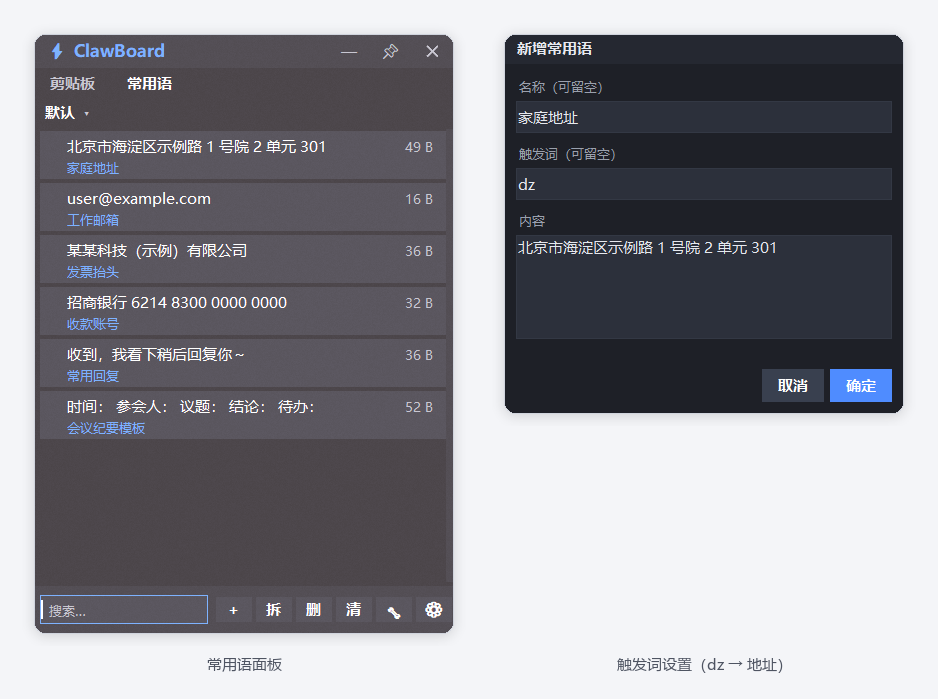
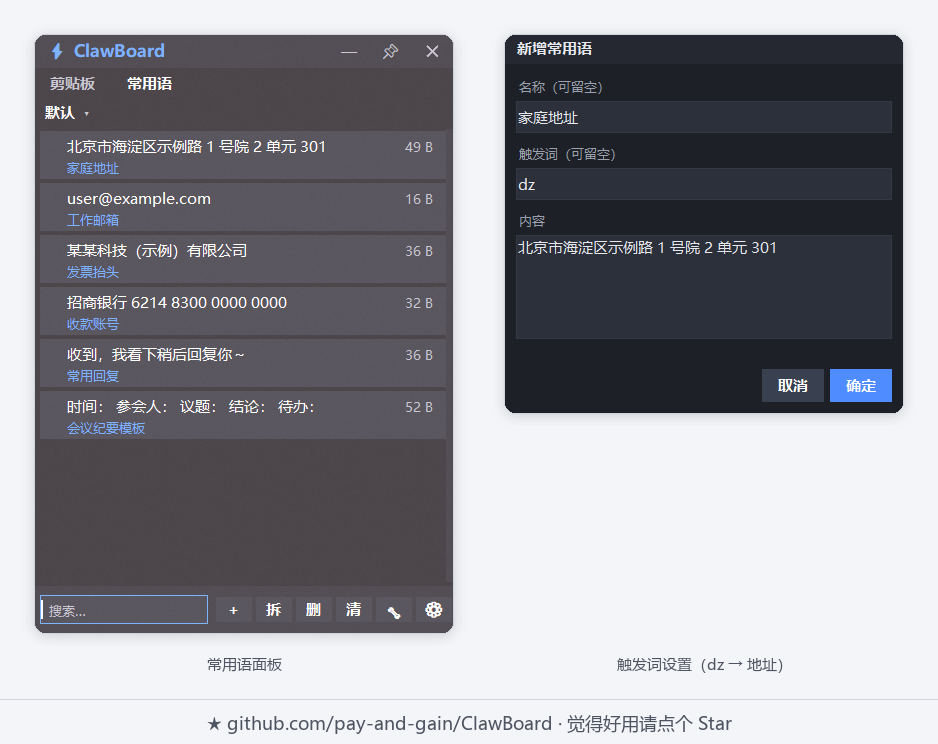
docs(images): 图片托管改 jsDelivr CDN 修复国内打不开 + 截图加求 Star 品牌条
- 根因：GitHub 渲染 README 相对路径图片时 302 到 raw.githubusercontent.com，
  该域名在部分网络不可达（实测 curl 返回 000），导致图片全部破图。
  实测 cdn.jsdelivr.net 可达且字节完整。
- 替换范围：README.md / README.en.md 各 11 处；docs/getting-started*.md 各 1 处；
  docs/DESIGN.en.md 与 docs/制作思路.md 的 markdown 图片链接各 1 处。
  docs/index.html 保持相对路径（在 GitHub Pages 上渲染，github.io 实测可达）。
- 截图优化：每张图底部加统一品牌引导条（★ 仓库地址 · 觉得好用请点个 Star）；
  剪贴板演示数据首条加求 Star 条目；预览图去掉 demo image 字样。
- 11 张截图全部重新生成；README 中英仍 230 行对称；真实数据文件未被触碰。

diff --git a/tools/shots/make_shots.py b/tools/shots/make_shots.py
@@ -73,6 +73,8 @@ SHADOW_RGBA = (18, 21, 30, 40)
 FONT_PATH = r'C:\Windows\Fonts\msyh.ttc'
 CAP_COLOR = (78, 84, 98)
 WIN = '420x600+120+120'                 # 单窗口截图的窗口尺寸/位置
+# 每张图底部统一的品牌引导条（求 Star）
+BRAND_TEXT = '★ github.com/pay-and-gain/ClawBoard · 觉得好用请点个 Star'
 
 
 # ---------------------------------------------------------------------------
@@ -275,7 +277,24 @@ def dock_tile(panel_raw, *, panel_y=None, work_h=600, left_gap=110, radius=12,
     return tile
 
 
+def add_brand(img):
+    """在图片最底部加一条统一的品牌引导条（求 Star）。字号随图宽自适应。"""
+    w, h = img.size
+    fs = max(12, min(18, int(w / 33)))
+    bar = fs + 27
+    cv = Image.new('RGBA', (w, h + bar), BG + (255,))
+    cv.alpha_composite(img.convert('RGBA'), (0, 0))
+    d = ImageDraw.Draw(cv)
+    d.line([(0, h), (w - 1, h)], fill=BORDER + (255,))
+    f = _font(fs)
+    tw = d.textlength(BRAND_TEXT, font=f)
+    d.text(((w - tw) / 2, h + (bar - fs * 1.32) / 2), BRAND_TEXT, font=f,
+           fill=CAP_COLOR + (255,))
+    return cv
+
+
 def save(img, name):
+    img = add_brand(img)
     path = os.path.join(OUT_DIR, name)
     if os.path.exists(path):
         os.remove(path)
@@ -321,8 +340,14 @@ def _demo(text, app, ctype=None, fav=0, mins=10, lines=None, img=None):
 
 
 def demo_clip(app):
-    """11 条脱敏演示记录：覆盖链接 / 邮箱 / JSON / 代码 / 手机号 / 日期等类型。"""
+    """脱敏演示记录：覆盖链接 / 邮箱 / JSON / 代码 / 手机号 / 日期等类型。
+
+    首条为「求 Star」引导条目 —— 让截图自身会说话（用户明确要求）。
+    """
     return [
+        _demo('如果 ClawBoard 帮到了你，点个 Star 支持一下吧：'
+              'github.com/pay-and-gain/ClawBoard',
+              'msedge', ctype='url', fav=1, mins=1),
         _demo('https://github.com/pay-and-gain/ClawBoard', 'msedge',
               ctype='url', fav=1, mins=3),
         _demo('user@example.com', 'outlook', mins=9),
@@ -357,8 +382,9 @@ def make_demo_png(path):
     d.rectangle([40, 40, w - 40, h - 40], outline=(255, 255, 255), width=3)
     d.ellipse([90, 120, 240, 270], fill=(255, 214, 102))
     d.polygon([(330, 300), (470, 300), (400, 150)], fill=(255, 255, 255))
-    d.text((60, 320), 'ClawBoard  -  demo image', font=_font(30),
-           fill=(255, 255, 255))
+    d.text((60, 296), 'ClawBoard', font=_font(36), fill=(255, 255, 255))
+    d.text((62, 348), 'github.com/pay-and-gain/ClawBoard', font=_font(19),
+           fill=(236, 242, 252))
     im.save(path, 'PNG')
 
 

diff --git a/README.en.md b/README.en.md
@@ -13,7 +13,7 @@ A lightweight clipboard history panel that sits in a corner of your screen: copy
 > 💛 **If this tool helps you, give it a Star** — every star keeps the updates coming. Found it useful? Share it with your friends and colleagues.
 
 <p align="center">
-  <img src="docs/images/main-window.png" alt="ClawBoard main window: clipboard history list" width="300">
+  <img src="https://cdn.jsdelivr.net/gh/pay-and-gain/ClawBoard@main/docs/images/main-window.png" alt="ClawBoard main window: clipboard history list" width="300">
 </p>
 
 - **Clipboard history** — auto capture, dedupe, configurable cap, starring; hover for time, right-click for details
@@ -37,7 +37,7 @@ A lightweight clipboard history panel that sits in a corner of your screen: copy
 ### 🔍 Advanced search · Pinyin · Auto-tagging
 
 <p align="center">
-  <img src="docs/images/search-highlight.png" alt="Advanced search: ClawBoard type:url, with the matched term highlighted" width="440">
+  <img src="https://cdn.jsdelivr.net/gh/pay-and-gain/ClawBoard@main/docs/images/search-highlight.png" alt="Advanced search: ClawBoard type:url, with the matched term highlighted" width="440">
 </p>
 
 - **Advanced search** — `app:` source / `time:` / `type:` / `size:` / `is:` / `tag:` / `-` exclude, multi-word AND + hit highlighting
@@ -47,7 +47,7 @@ A lightweight clipboard history panel that sits in a corner of your screen: copy
 ### 💬 Phrases & triggers
 
 <p align="center">
-  <img src="docs/images/phrases.png" alt="Phrases panel with the trigger-snippet dialog" width="460">
+  <img src="https://cdn.jsdelivr.net/gh/pay-and-gain/ClawBoard@main/docs/images/phrases.png" alt="Phrases panel with the trigger-snippet dialog" width="460">
 </p>
 
 - **Phrases** — group management, word split (turn one block of text into many phrases), full CRUD
@@ -56,7 +56,7 @@ A lightweight clipboard history panel that sits in a corner of your screen: copy
 ### 🖼 Image clipboard
 
 <p align="center">
-  <img src="docs/images/image-clipboard.png" alt="Image clipboard entry with the corner preview" width="560">
+  <img src="https://cdn.jsdelivr.net/gh/pay-and-gain/ClawBoard@main/docs/images/image-clipboard.png" alt="Image clipboard entry with the corner preview" width="560">
 </p>
 
 - **Image clipboard** — screenshots / copied images are captured, and the full-size preview pops up in the corner on select
@@ -65,7 +65,7 @@ A lightweight clipboard history panel that sits in a corner of your screen: copy
 ### 🧰 27 text transforms · Batch export
 
 <p align="center">
-  <img src="docs/images/transform.png" alt="Transform window: recommended transforms with source / result" width="520">
+  <img src="https://cdn.jsdelivr.net/gh/pay-and-gain/ClawBoard@main/docs/images/transform.png" alt="Transform window: recommended transforms with source / result" width="520">
 </p>
 
 - **27 text transforms** — encode/decode, case, line ops, hashes (MD5 / SHA1 / SHA256), JSON formatting… with smart recommendations
@@ -74,7 +74,7 @@ A lightweight clipboard history panel that sits in a corner of your screen: copy
 ### ⌨ Command palette
 
 <p align="center">
-  <img src="docs/images/command-palette.png" alt="Command palette: fuzzy-filter commands" width="300">
+  <img src="https://cdn.jsdelivr.net/gh/pay-and-gain/ClawBoard@main/docs/images/command-palette.png" alt="Command palette: fuzzy-filter commands" width="300">
 </p>
 
 - **Open with `Ctrl+Shift+P`** — type to fuzzy-filter commands and press Enter to run
@@ -82,9 +82,9 @@ A lightweight clipboard history panel that sits in a corner of your screen: copy
 ### 🎨 Look & feel
 
 <p align="center">
-  <img src="docs/images/theme-compare.png" alt="Light / dark theme comparison" width="300">
-  <img src="docs/images/folded-edge.png" alt="Expanded panel vs. double-click collapse to the edge" width="320">
-  <img src="docs/images/scale-compare.png" alt="Proportional UI scaling at 50% / 100% / 150%" width="330">
+  <img src="https://cdn.jsdelivr.net/gh/pay-and-gain/ClawBoard@main/docs/images/theme-compare.png" alt="Light / dark theme comparison" width="300">
+  <img src="https://cdn.jsdelivr.net/gh/pay-and-gain/ClawBoard@main/docs/images/folded-edge.png" alt="Expanded panel vs. double-click collapse to the edge" width="320">
+  <img src="https://cdn.jsdelivr.net/gh/pay-and-gain/ClawBoard@main/docs/images/scale-compare.png" alt="Proportional UI scaling at 50% / 100% / 150%" width="330">
 </p>
 
 - **Light / dark themes**, **double-click to collapse to the edge**, **proportional UI scaling 50%–150%** (`Ctrl+=` / `Ctrl+-`)
@@ -93,8 +93,8 @@ A lightweight clipboard history panel that sits in a corner of your screen: copy
 ### ⚙ Settings at a glance
 
 <p align="center">
-  <img src="docs/images/settings-general.png" alt="Settings - general" width="300">
-  <img src="docs/images/settings-advanced.png" alt="Settings - advanced" width="300">
+  <img src="https://cdn.jsdelivr.net/gh/pay-and-gain/ClawBoard@main/docs/images/settings-general.png" alt="Settings - general" width="300">
+  <img src="https://cdn.jsdelivr.net/gh/pay-and-gain/ClawBoard@main/docs/images/settings-advanced.png" alt="Settings - advanced" width="300">
 </p>
 
 - A single scrollable panel for listening, masking, theme, scaling, ignore lists, length filters and autostart

diff --git a/README.md b/README.md
@@ -13,7 +13,7 @@
 > 💛 **如果这个工具帮到了你，点个 Star 支持一下吧** —— 你的每一个 Star 都是持续更新的动力。觉得好用也欢迎分享给同事和朋友。
 
 <p align="center">
-  <img src="docs/images/main-window.png" alt="ClawBoard 主界面：剪贴板历史列表" width="300">
+  <img src="https://cdn.jsdelivr.net/gh/pay-and-gain/ClawBoard@main/docs/images/main-window.png" alt="ClawBoard 主界面：剪贴板历史列表" width="300">
 </p>
 
 - **剪贴板历史** —— 自动记录、去重、上限裁剪、收藏；悬停看时间，右键看详情
@@ -37,7 +37,7 @@
 ### 🔍 高级搜索 · 拼音 · 自动标签
 
 <p align="center">
-  <img src="docs/images/search-highlight.png" alt="高级搜索：ClawBoard type:url，命中词高亮" width="440">
+  <img src="https://cdn.jsdelivr.net/gh/pay-and-gain/ClawBoard@main/docs/images/search-highlight.png" alt="高级搜索：ClawBoard type:url，命中词高亮" width="440">
 </p>
 
 - **高级搜索** —— `app:` 来源 / `time:` 时间 / `type:` 类型 / `size:` 大小 / `is:` 状态 / `tag:` 标签 / `-` 排除，多词 AND + 命中高亮
@@ -47,7 +47,7 @@
 ### 💬 常用语与触发词
 
 <p align="center">
-  <img src="docs/images/phrases.png" alt="常用语面板与触发词设置" width="460">
+  <img src="https://cdn.jsdelivr.net/gh/pay-and-gain/ClawBoard@main/docs/images/phrases.png" alt="常用语面板与触发词设置" width="460">
 </p>
 
 - **常用语** —— 分组管理、拆词（一段文字批量切成多条）、增删改
@@ -56,7 +56,7 @@
 ### 🖼 图片剪贴板
 
 <p align="center">
-  <img src="docs/images/image-clipboard.png" alt="图片剪贴板：白色条目 + 角落大图预览" width="560">
+  <img src="https://cdn.jsdelivr.net/gh/pay-and-gain/ClawBoard@main/docs/images/image-clipboard.png" alt="图片剪贴板：白色条目 + 角落大图预览" width="560">
 </p>
 
 - **图片剪贴板** —— 截图 / 复制图片自动记录，选中即在角落弹出大图预览
@@ -65,7 +65,7 @@
 ### 🧰 27 项文本变换 · 批量导出
 
 <p align="center">
-  <img src="docs/images/transform.png" alt="文本变换窗口：推荐变换 + 原文 / 结果对照" width="520">
+  <img src="https://cdn.jsdelivr.net/gh/pay-and-gain/ClawBoard@main/docs/images/transform.png" alt="文本变换窗口：推荐变换 + 原文 / 结果对照" width="520">
 </p>
 
 - **27 项文本变换** —— 编解码、大小写、行处理、哈希（MD5 / SHA1 / SHA256）、JSON 格式化…按内容智能推荐
@@ -74,7 +74,7 @@
 ### ⌨ 命令面板
 
 <p align="center">
-  <img src="docs/images/command-palette.png" alt="命令面板：模糊过滤命令" width="300">
+  <img src="https://cdn.jsdelivr.net/gh/pay-and-gain/ClawBoard@main/docs/images/command-palette.png" alt="命令面板：模糊过滤命令" width="300">
 </p>
 
 - **`Ctrl+Shift+P` 呼出** —— 输入命令名模糊过滤，回车即执行
@@ -82,9 +82,9 @@
 ### 🎨 外观个性
 
 <p align="center">
-  <img src="docs/images/theme-compare.png" alt="亮色 / 暗色主题对比" width="300">
-  <img src="docs/images/folded-edge.png" alt="展开面板与双击折叠贴边对比" width="320">
-  <img src="docs/images/scale-compare.png" alt="界面等比缩放 50% / 100% / 150%" width="330">
+  <img src="https://cdn.jsdelivr.net/gh/pay-and-gain/ClawBoard@main/docs/images/theme-compare.png" alt="亮色 / 暗色主题对比" width="300">
+  <img src="https://cdn.jsdelivr.net/gh/pay-and-gain/ClawBoard@main/docs/images/folded-edge.png" alt="展开面板与双击折叠贴边对比" width="320">
+  <img src="https://cdn.jsdelivr.net/gh/pay-and-gain/ClawBoard@main/docs/images/scale-compare.png" alt="界面等比缩放 50% / 100% / 150%" width="330">
 </p>
 
 - **亮 / 暗主题**、**双击折叠贴边**、**界面等比缩放 50%~150%**（`Ctrl+=` / `Ctrl+-`）
@@ -93,8 +93,8 @@
 ### ⚙ 设置一目了然
 
 <p align="center">
-  <img src="docs/images/settings-general.png" alt="设置 - 基础" width="300">
-  <img src="docs/images/settings-advanced.png" alt="设置 - 进阶" width="300">
+  <img src="https://cdn.jsdelivr.net/gh/pay-and-gain/ClawBoard@main/docs/images/settings-general.png" alt="设置 - 基础" width="300">
+  <img src="https://cdn.jsdelivr.net/gh/pay-and-gain/ClawBoard@main/docs/images/settings-advanced.png" alt="设置 - 进阶" width="300">
 </p>
 
 - 基础 / 进阶分栏滚动：监听、打码、主题、缩放、忽略名单、长度过滤、开机自启一屏可调

diff --git a/docs/制作思路.md b/docs/制作思路.md
@@ -73,7 +73,7 @@ python ClawBoard.py          # 需 Python 3 + tkinter
 | 退出 | `Ctrl+Q`，或设置里「退出程序」 |
 
 ### 设置项说明
-设置面板分两屏（见 [设置截图](./images/settings-general.png) / [进阶设置](./images/settings-advanced.png)）：
+设置面板分两屏（见 [设置截图](https://cdn.jsdelivr.net/gh/pay-and-gain/ClawBoard@main/docs/images/settings-general.png) / [进阶设置](https://cdn.jsdelivr.net/gh/pay-and-gain/ClawBoard@main/docs/images/settings-advanced.png)）：
 
 - **监听剪贴板**：总开关
 - **单击后自动粘贴到上一窗口**：关掉就只复制、不自动粘贴

diff --git a/docs/DESIGN.en.md b/docs/DESIGN.en.md
@@ -73,7 +73,7 @@ Or run the packaged `ClawBoard.exe`. The C build lives in [`ClawBoardC/`](../Cla
 | Quit | `Ctrl+Q`, or "Exit" in settings |
 
 ### Settings
-Two screens (see [general settings](./images/settings-general.png) / [advanced settings](./images/settings-advanced.png)):
+Two screens (see [general settings](https://cdn.jsdelivr.net/gh/pay-and-gain/ClawBoard@main/docs/images/settings-general.png) / [advanced settings](https://cdn.jsdelivr.net/gh/pay-and-gain/ClawBoard@main/docs/images/settings-advanced.png)):
 
 - **Listen to clipboard** — master switch
 - **Auto-paste on single click** — turn off to copy without pasting

diff --git a/docs/getting-started.en.md b/docs/getting-started.en.md
@@ -33,7 +33,7 @@ If you only remember three things, remember these three steps:
 That's it. Everything else is a bonus.
 
 <p align="center">
-  <img src="images/main-window.png" alt="ClawBoard main window: clipboard history list" width="300">
+  <img src="https://cdn.jsdelivr.net/gh/pay-and-gain/ClawBoard@main/docs/images/main-window.png" alt="ClawBoard main window: clipboard history list" width="300">
 </p>
 
 ---

diff --git a/docs/getting-started.md b/docs/getting-started.md
@@ -33,7 +33,7 @@
 就这么多。剩下的一切都是锦上添花。
 
 <p align="center">
-  <img src="images/main-window.png" alt="ClawBoard 主界面：剪贴板历史列表" width="300">
+  <img src="https://cdn.jsdelivr.net/gh/pay-and-gain/ClawBoard@main/docs/images/main-window.png" alt="ClawBoard 主界面：剪贴板历史列表" width="300">
 </p>
 
 ---
